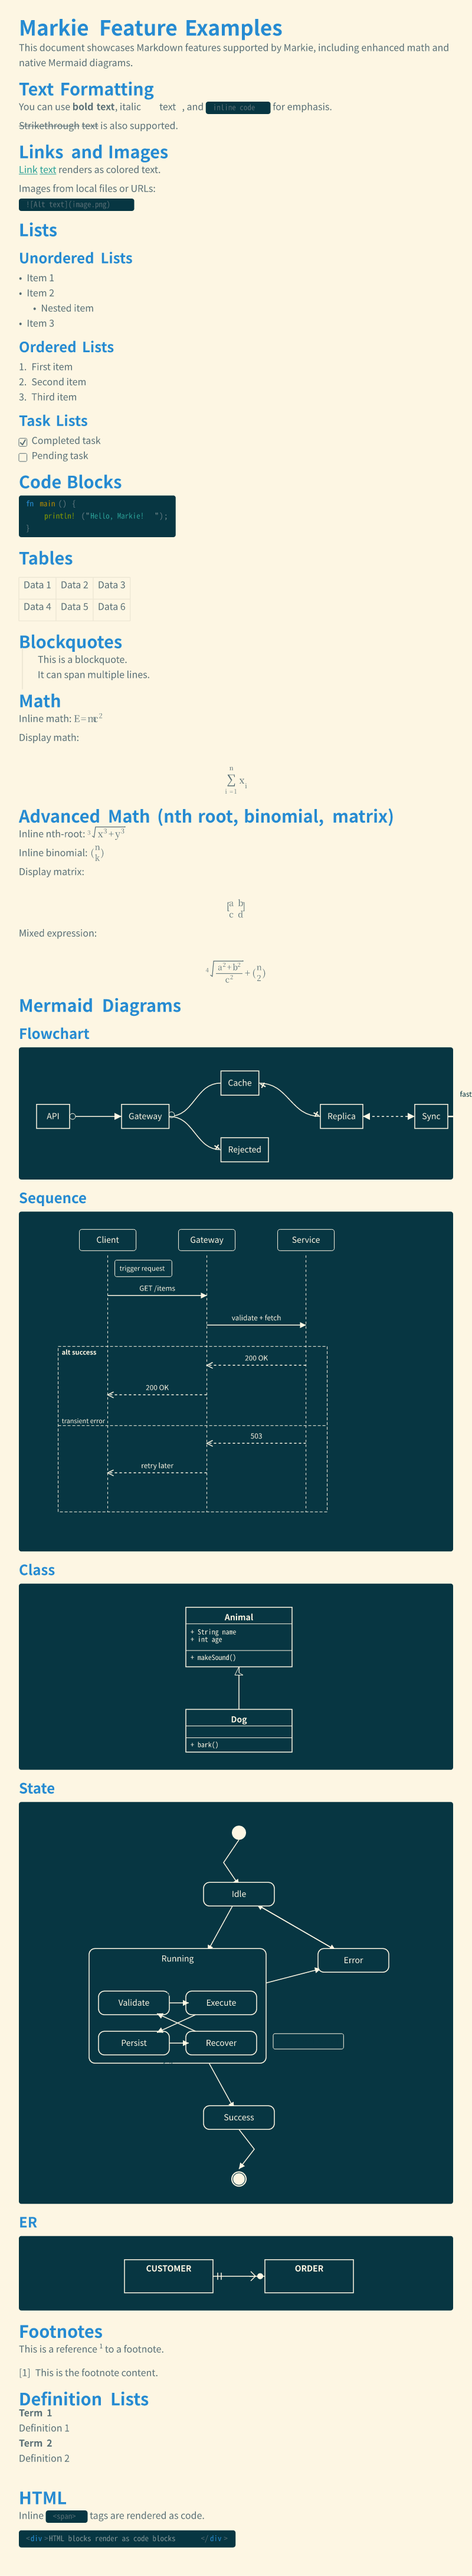
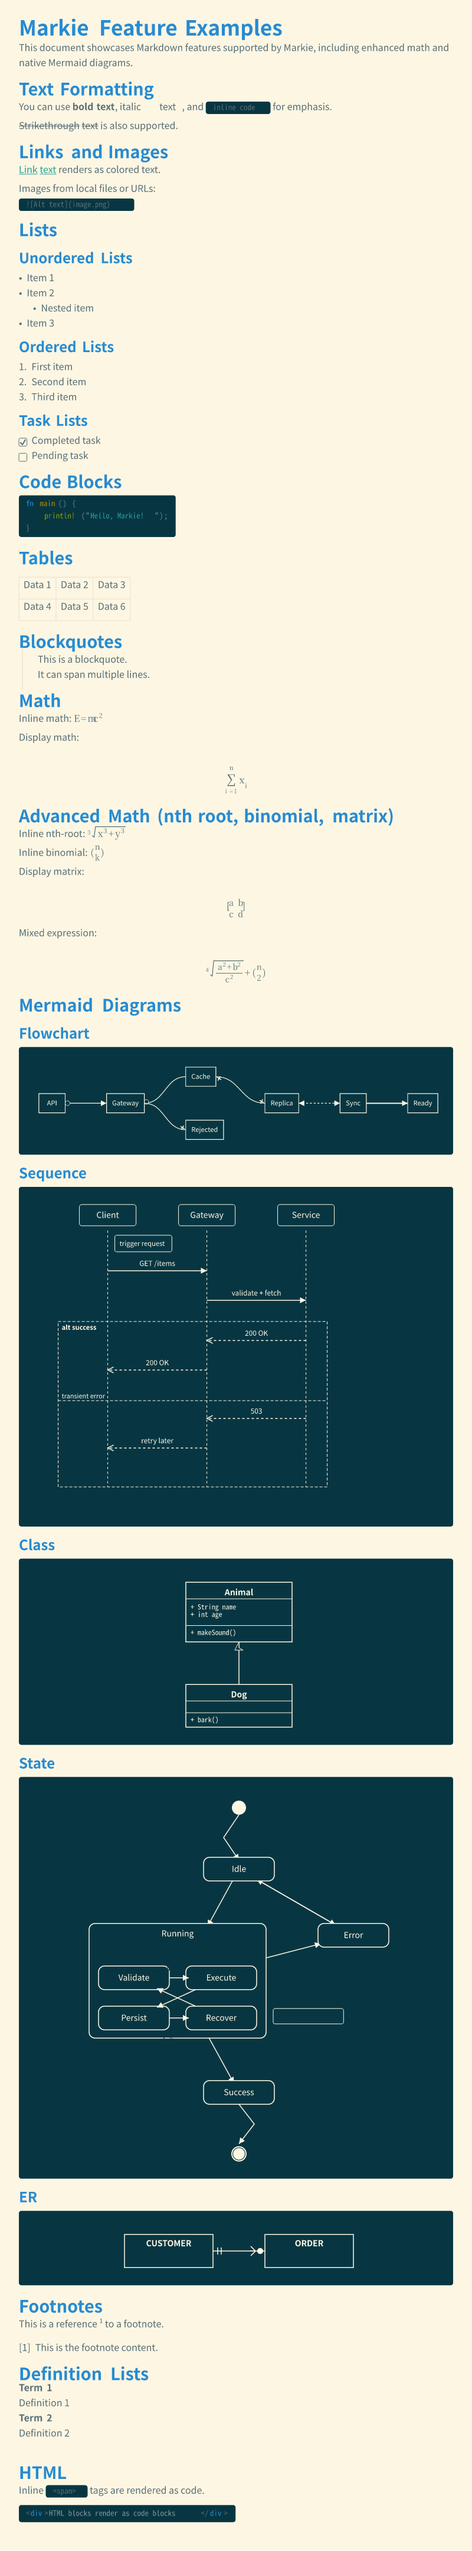
Scale oversized Mermaid blocks to content width

diff --git a/src/renderer.rs b/src/renderer.rs
@@ -286,6 +286,32 @@ classDiagram
             texts
         );
     }
+
+    #[test]
+    fn test_mermaid_block_scales_down_when_wider_than_content() {
+        let theme = Theme::default();
+        let measure = MockMeasure;
+        let mut renderer = Renderer::new(theme, measure, 360.0).unwrap();
+
+        let markdown = r#"
+```mermaid
+flowchart LR
+    A[Start] --> B[Gateway]
+    B --> C[Auth]
+    C --> D[Query]
+    D --> E[Transform]
+    E --> F[Cache]
+    F --> G[Publish]
+    G --> H[Done]
+```
+"#;
+
+        let svg = renderer.render(markdown).unwrap();
+        assert!(
+            svg.contains("scale("),
+            "Expected Mermaid block to be scaled when too wide"
+        );
+    }
 }
 
 const LIST_INDENT_RATIO: f32 = 1.5;
@@ -1319,16 +1345,20 @@ impl<T: TextMeasure> Renderer<T> {
 
         let (svg, width, height) = render_diagram(source, &style, &mut self.measure)?;
 
-        // Center the diagram if smaller than available width
+        // Scale down oversized diagrams so they never overflow the code-block frame.
         let available_width = self.right_edge() - x;
-        let offset_x = if width < available_width {
-            (available_width - width) / 2.0
+        let content_max_width = (available_width - 20.0).max(1.0);
+        let scale = if width > content_max_width {
+            content_max_width / width
         } else {
-            0.0
+            1.0
         };
+        let rendered_width = width * scale;
+        let rendered_height = height * scale;
+        let offset_x = (available_width - rendered_width).max(0.0) / 2.0;
 
         // Add background
-        let bg_height = height + 20.0;
+        let bg_height = rendered_height + 20.0;
         write!(
             self.svg_content,
             r#"<rect x="{:.2}" y="{:.2}" width="{:.2}" height="{:.2}" rx="{:.2}" fill="{}" />"#,
@@ -1346,8 +1376,8 @@ impl<T: TextMeasure> Renderer<T> {
         let svg_y = self.cursor_y + 10.0;
         write!(
             self.svg_content,
-            r#"<g transform="translate({:.2}, {:.2})">{}</g>"#,
-            svg_x, svg_y, svg
+            r#"<g transform="translate({:.2}, {:.2}) scale({:.4})">{}</g>"#,
+            svg_x, svg_y, scale, svg
         )
         .unwrap();
 
